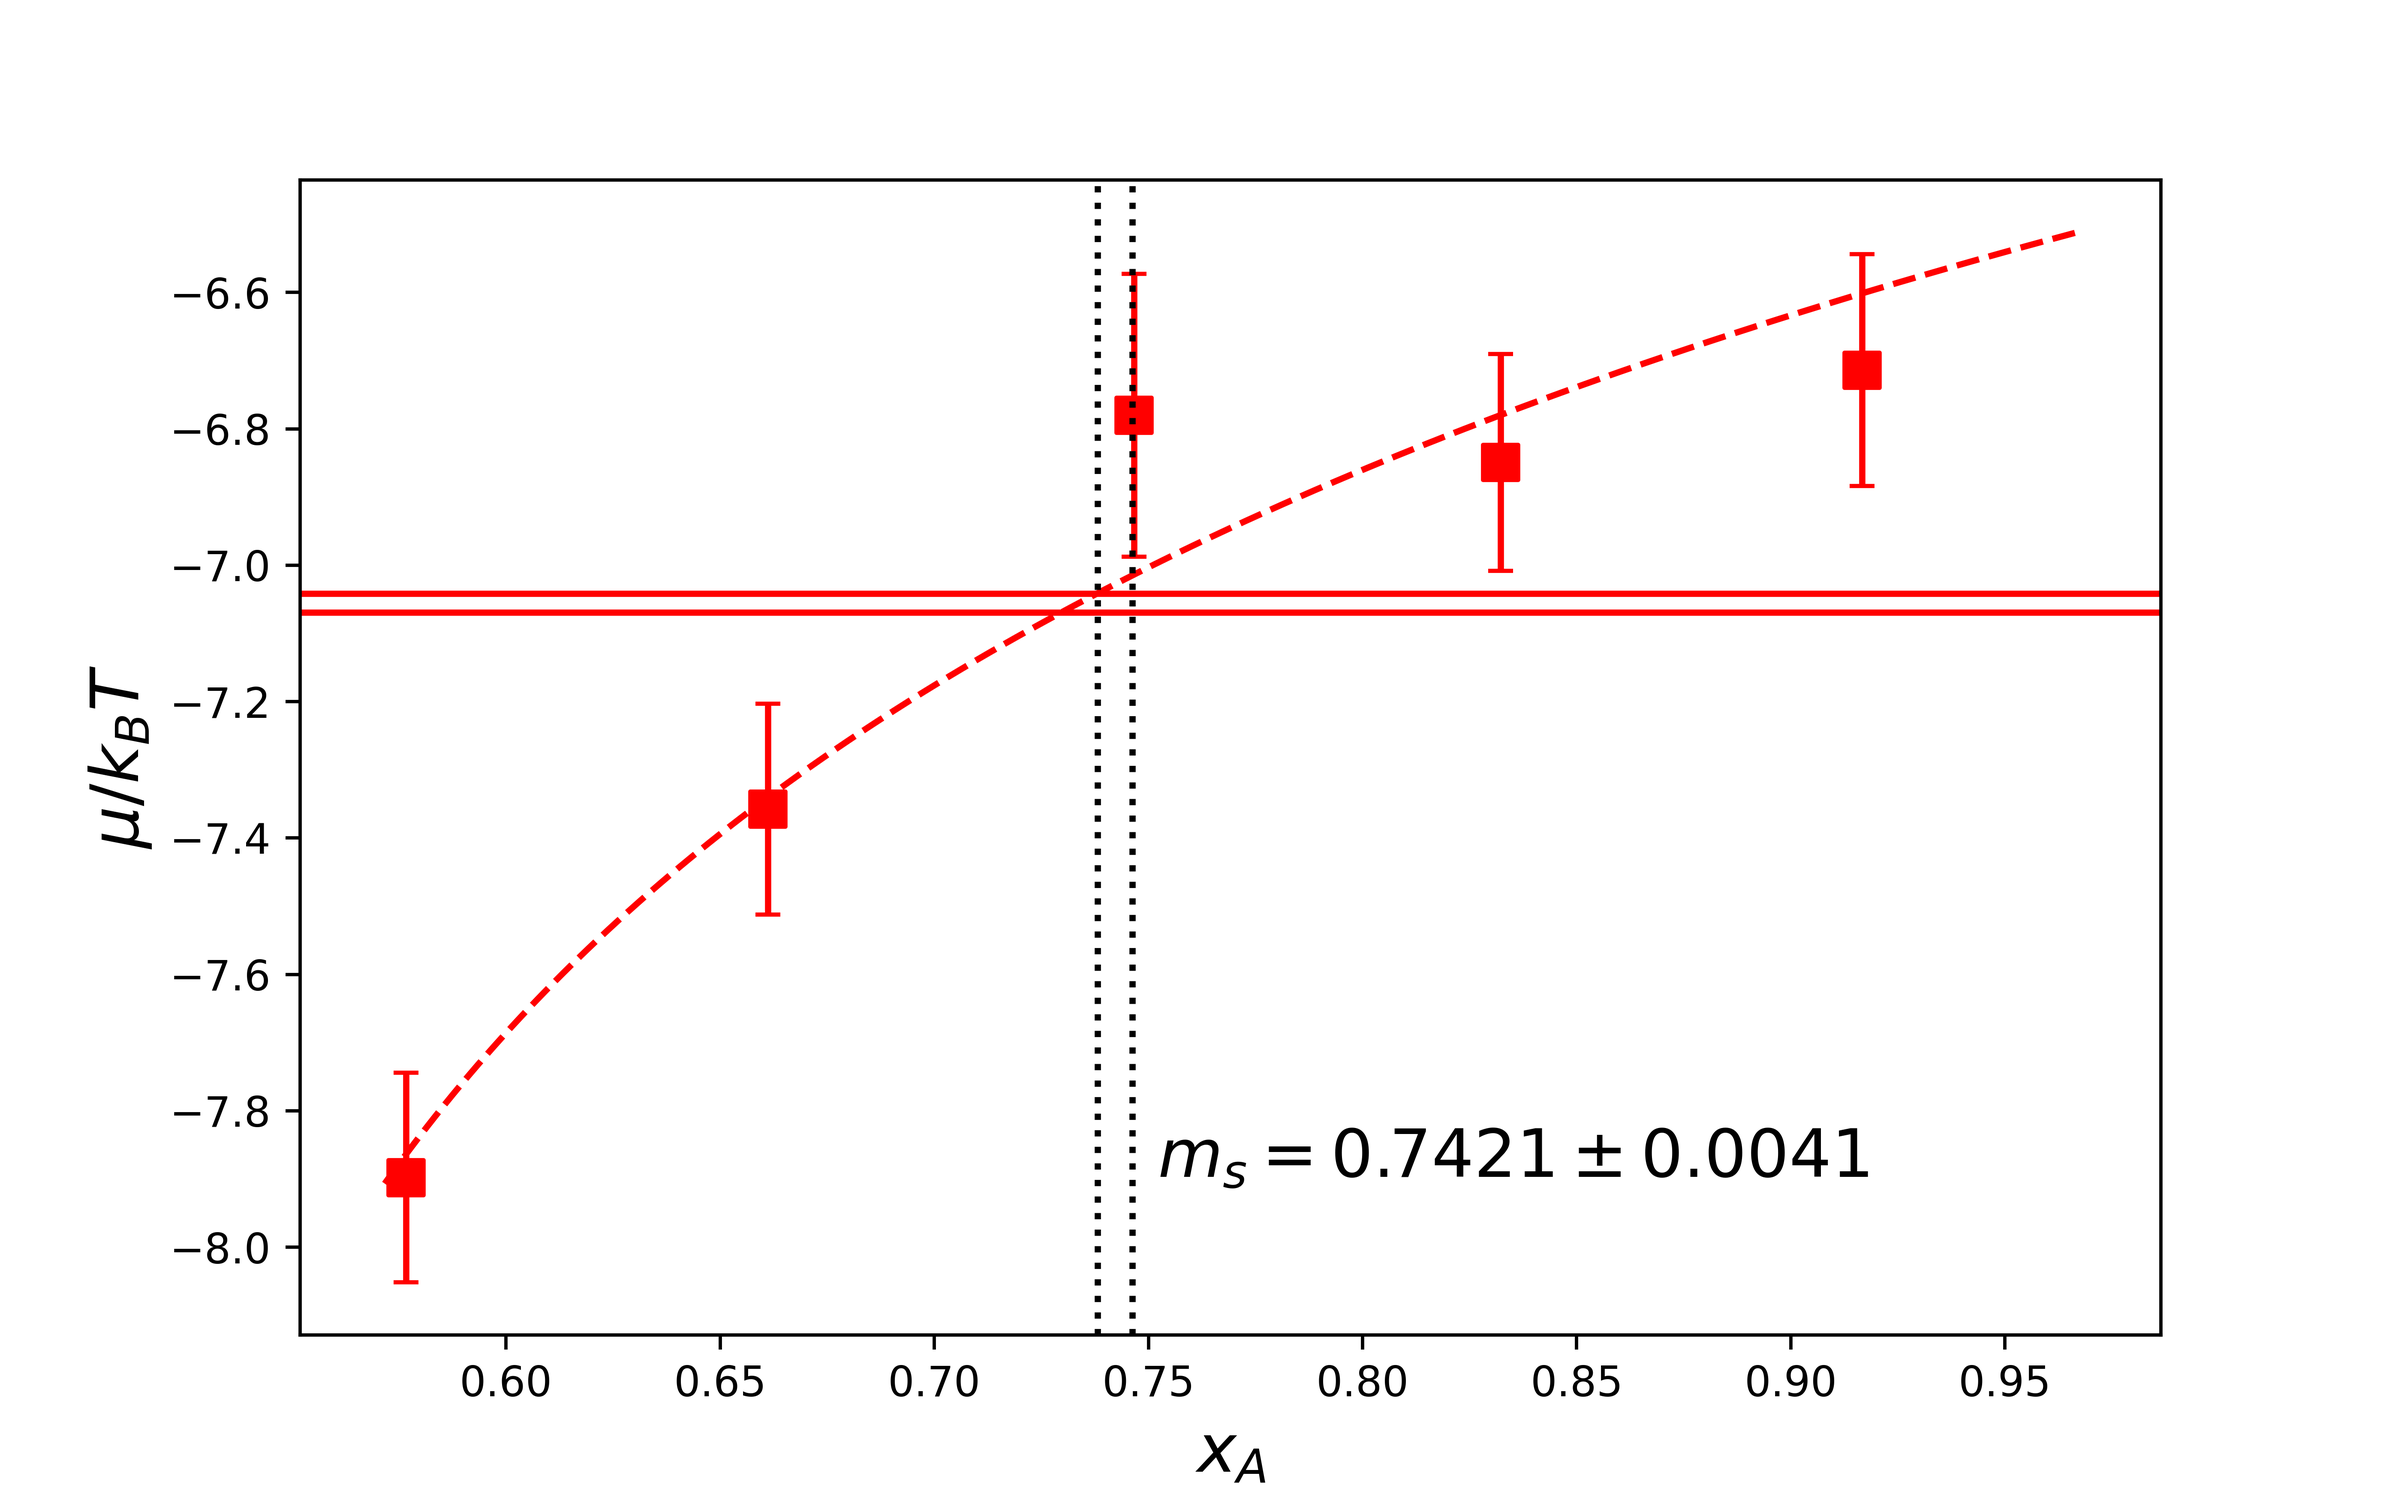
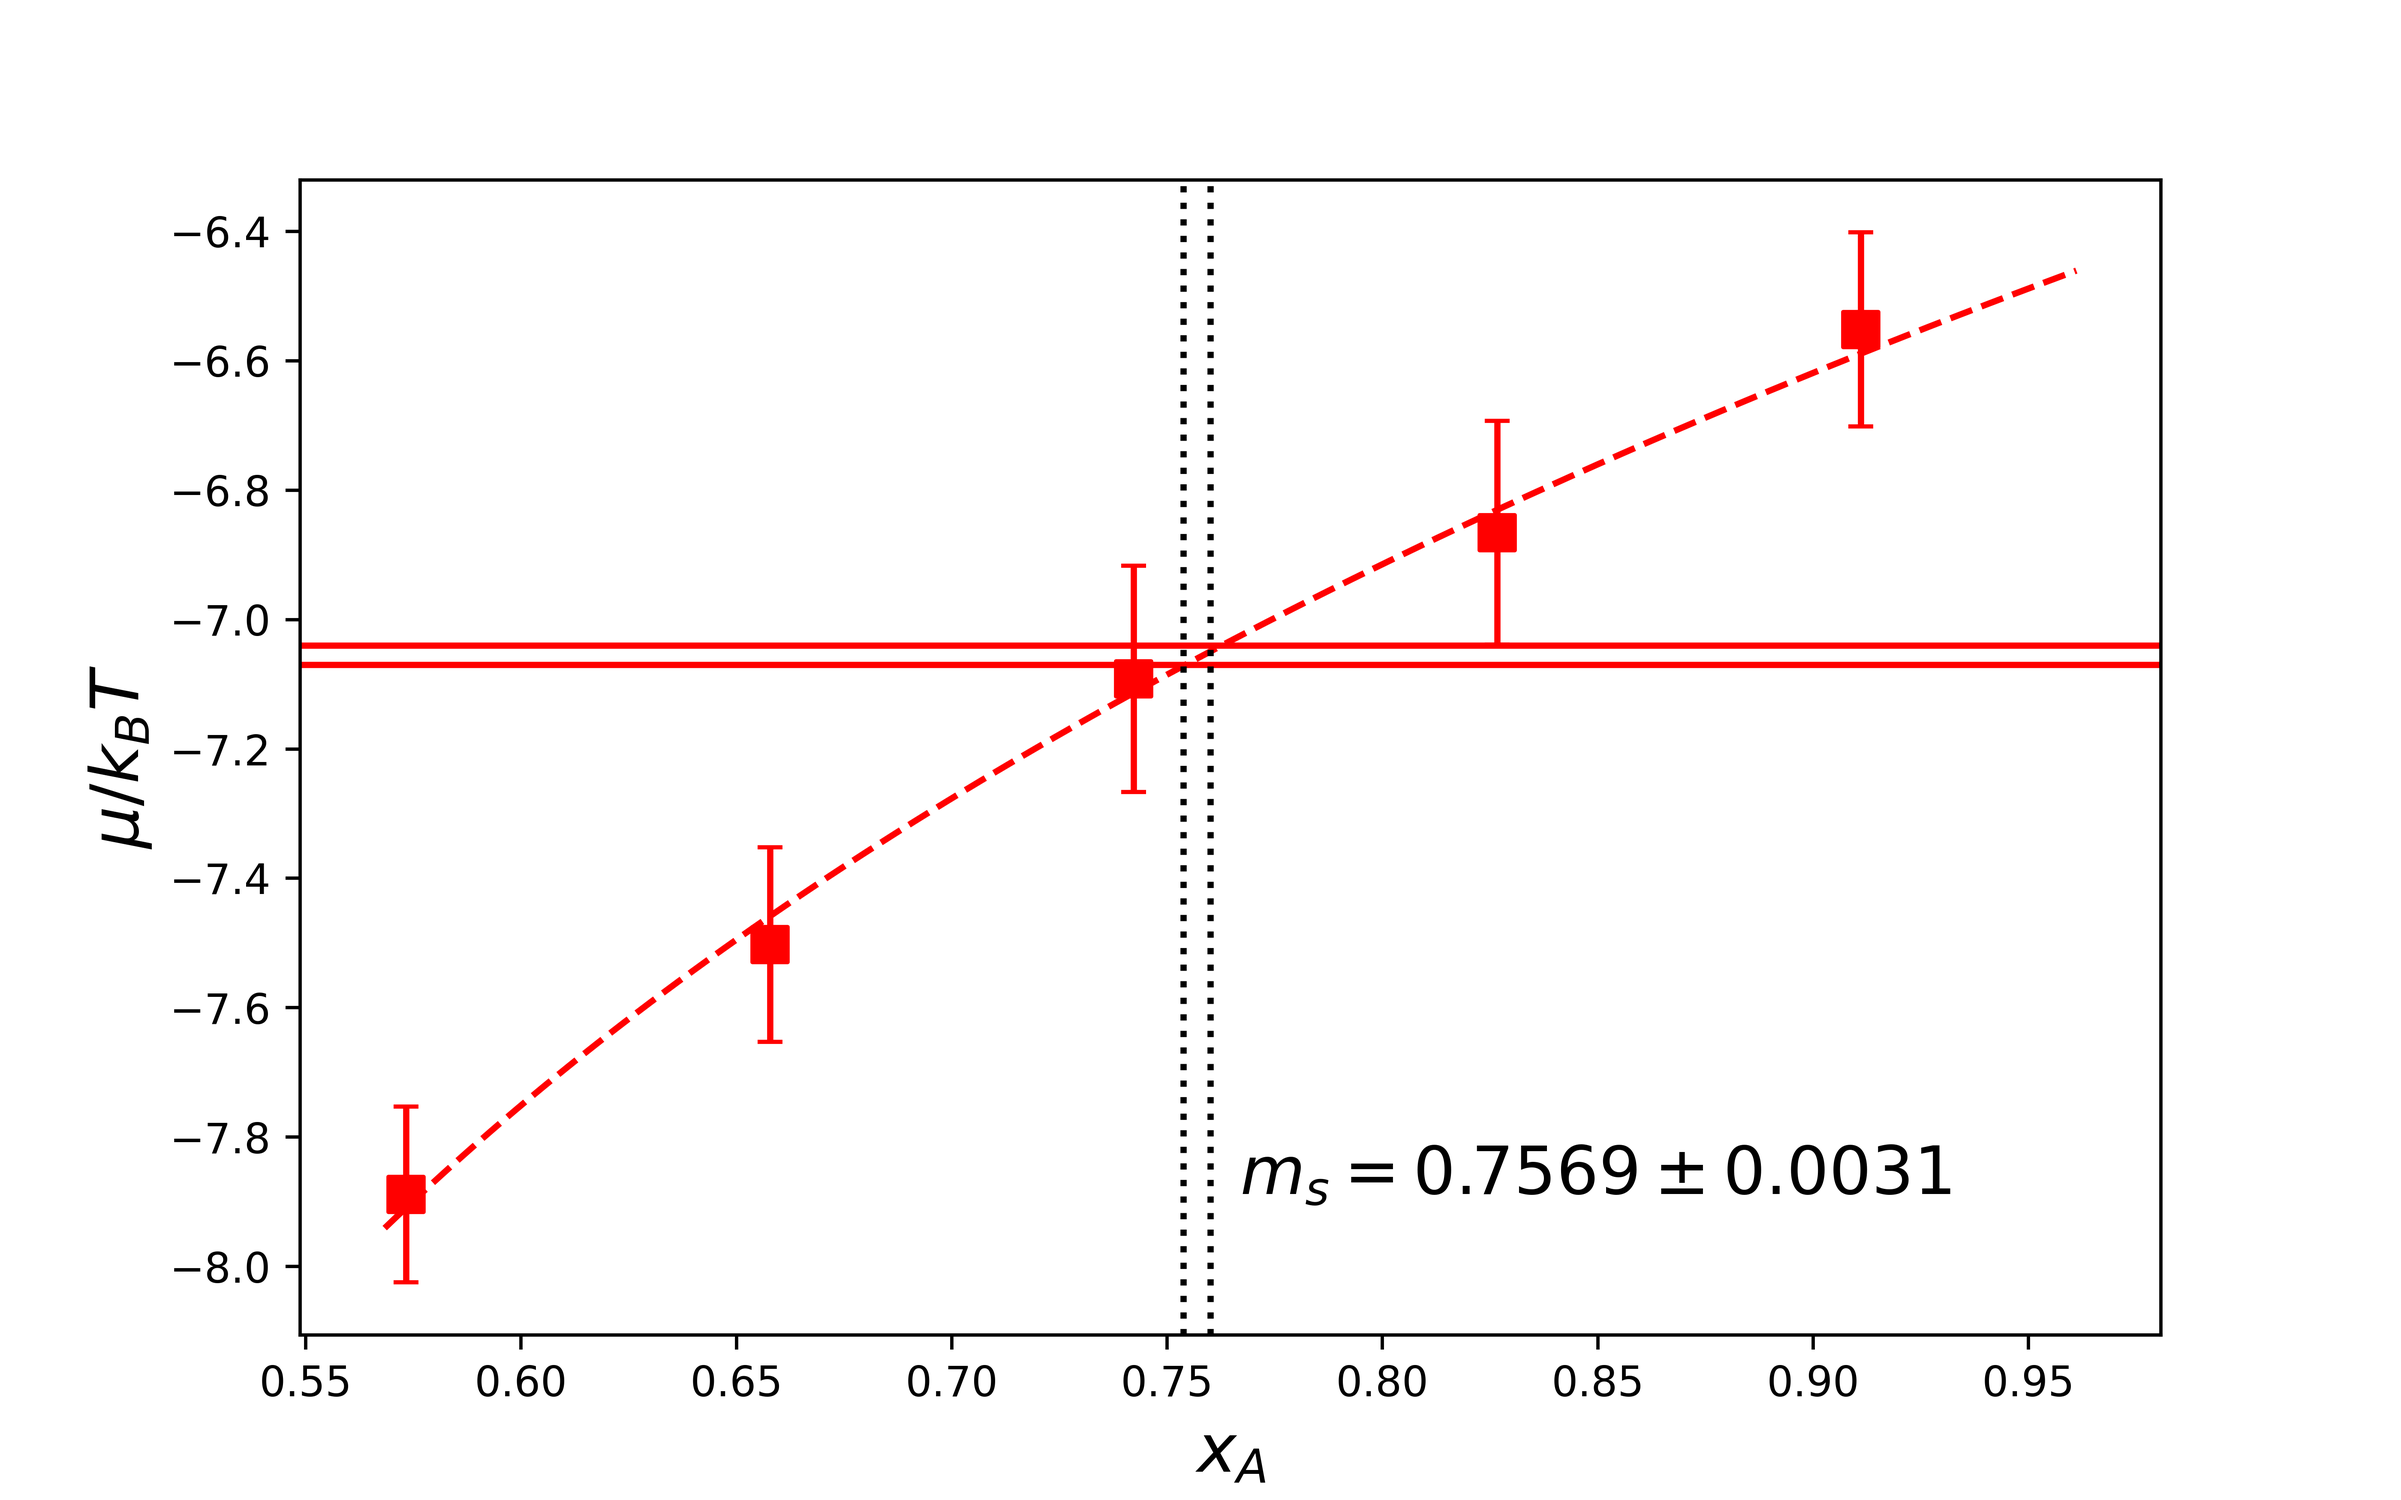
fix concentration range limits.

diff --git a/Binary_LJ/compute_concentration_range.py b/Binary_LJ/compute_concentration_range.py
@@ -117,13 +117,14 @@ m_s = 0.01 * np.abs(MU - mu_solid_LJ) ** 2
 N_A_m_s = int(m_s * N_tot)
 dN = int(N_A_m_s * 0.2)
 N_A_start_val = N_A_m_s - 3*dN 
+N_lim = 0.95 * N_tot
 
 N_As = np.array([N_A_start_val + j*dN for j in range(6)])
-N_As = N_As[(N_As > 0) & (N_As < N_tot)] 
+N_As = N_As[(N_As > 0) & (N_As < N_lim)] 
 while len(N_As) < 5:
     dN /= 1.5
     N_As = np.array([N_A_start_val + j*dN for j in range(6)])
-    N_As = N_As[(N_As > 0) & (N_As < N_tot)]    
+    N_As = N_As[(N_As > 0) & (N_As < N_lim)]    
 
 with open("conc.txt", "w+") as f:
     for N_A in N_As:
